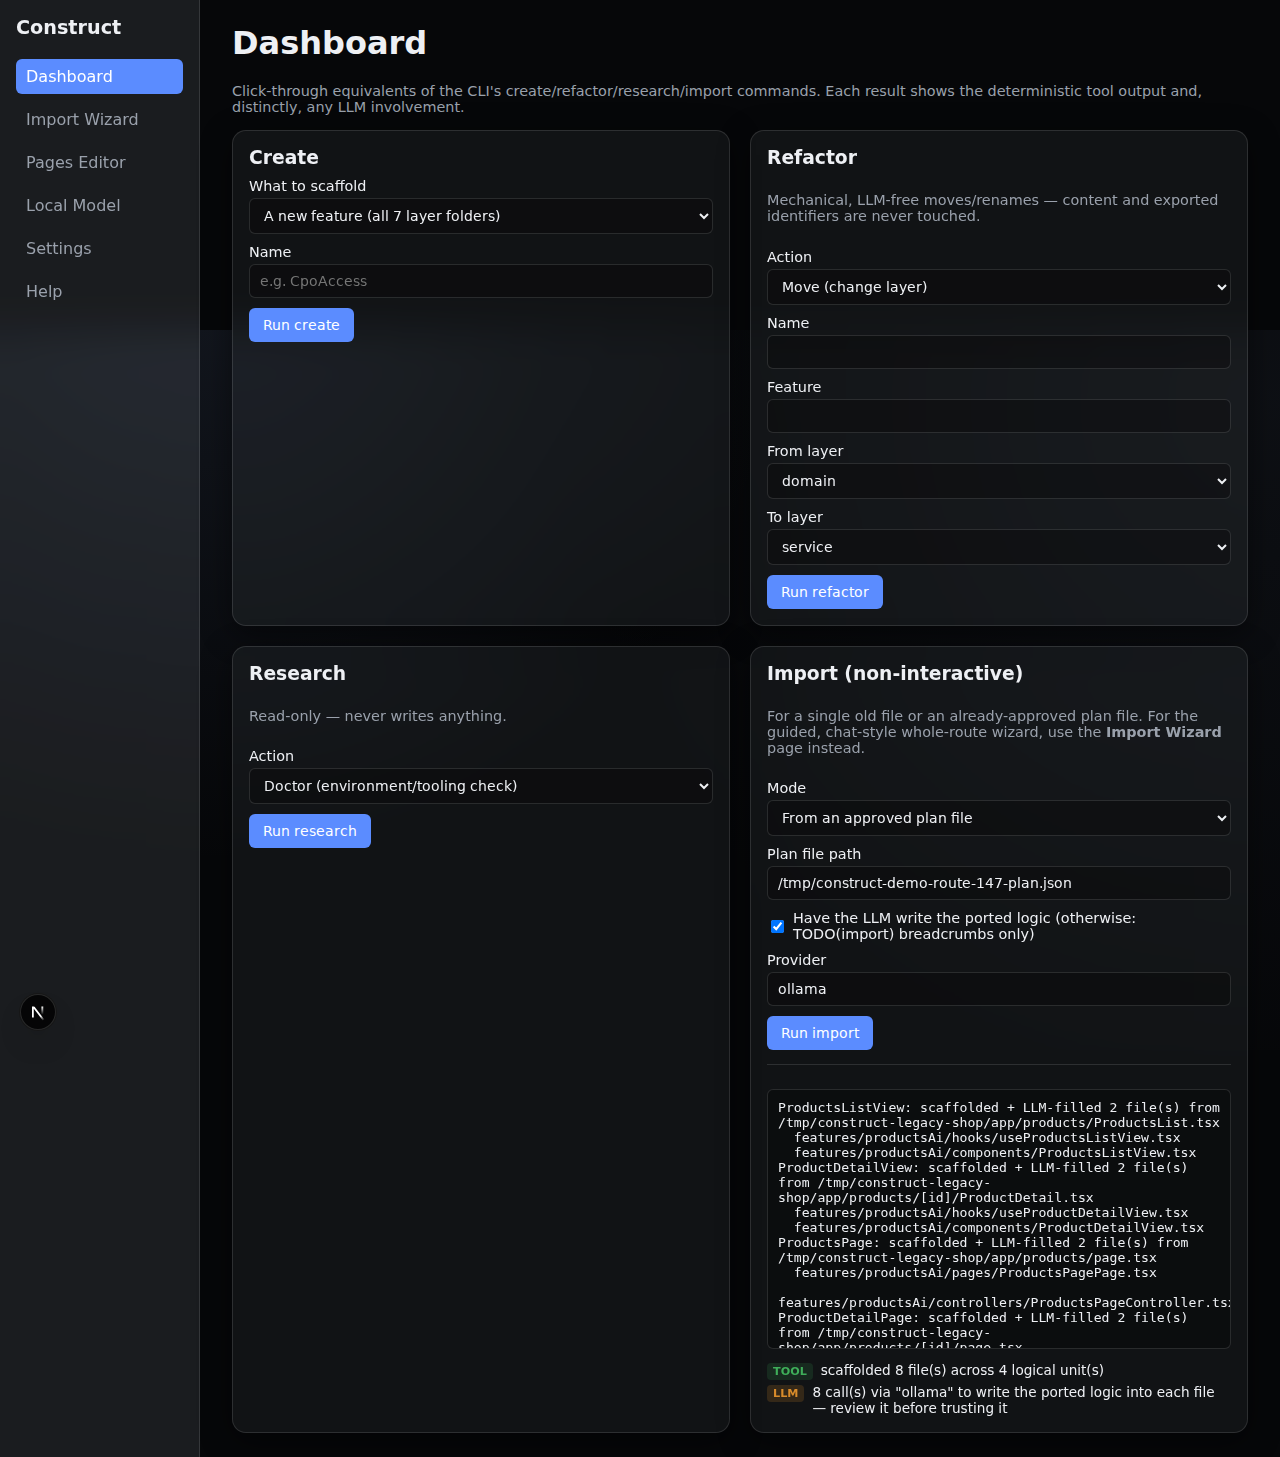
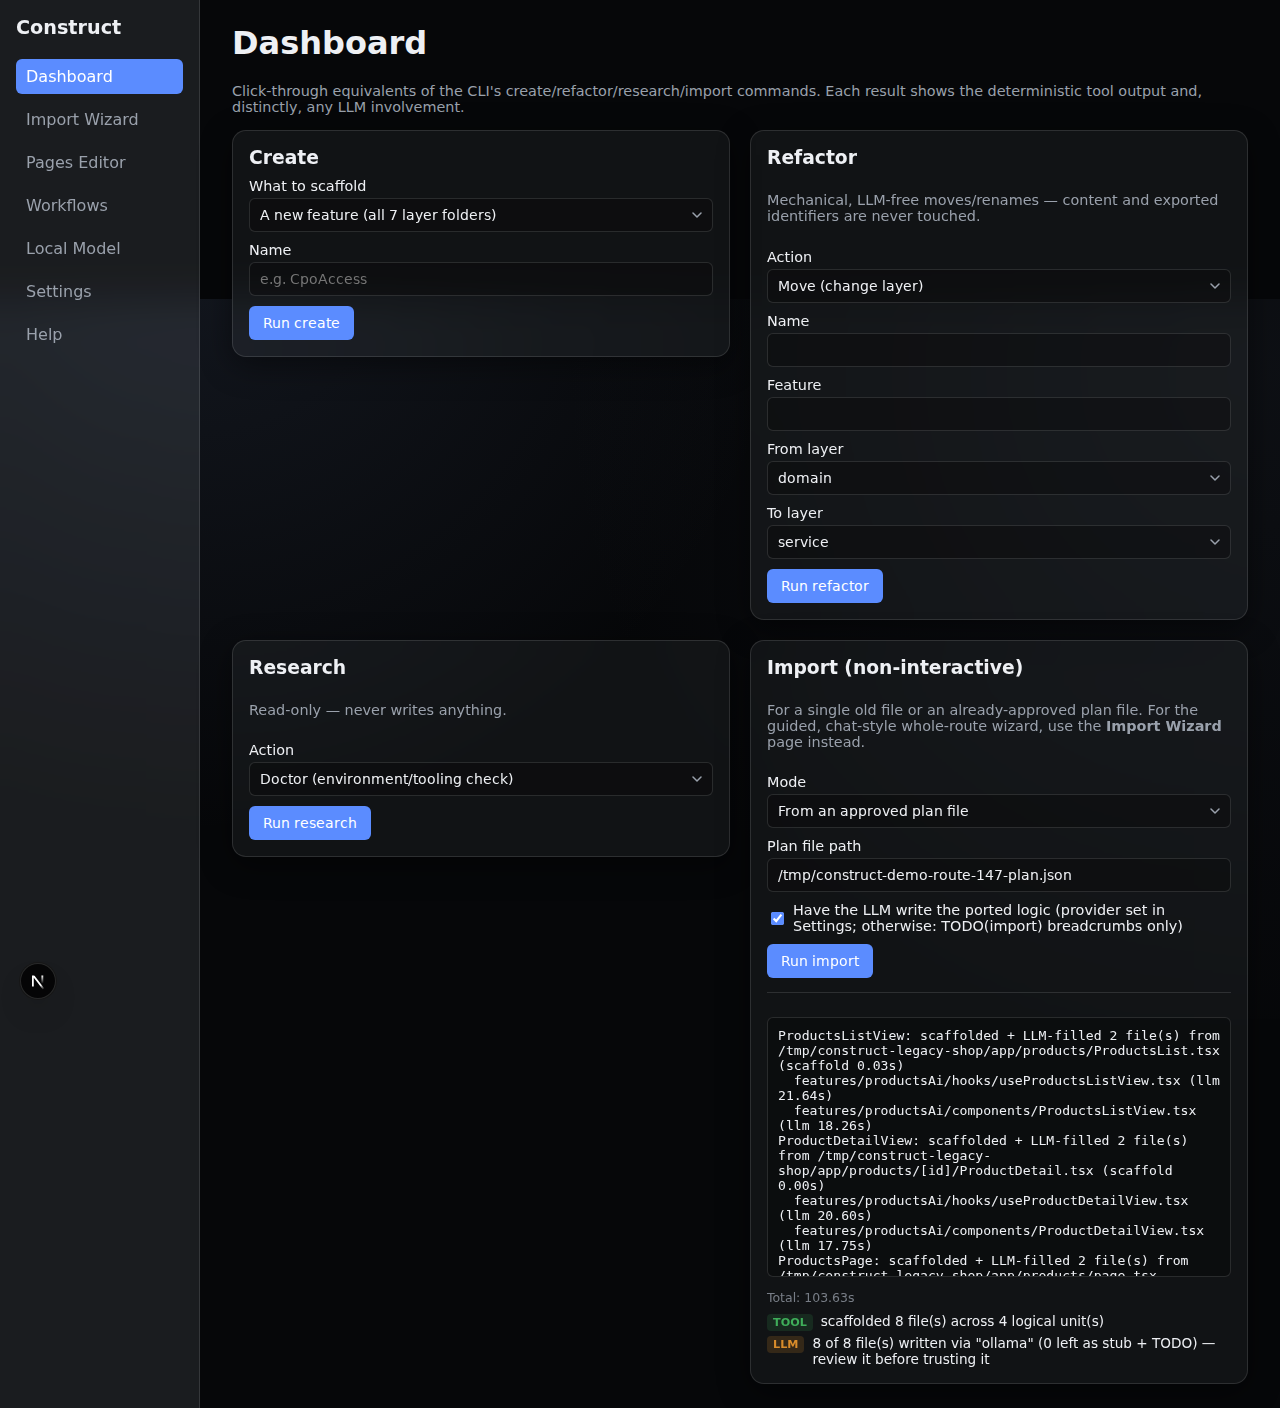
Refresh Help Tutorials screenshots against current UI; fix stale tutorial copy and demo specs (#194)
Create form now has an opt-in LLM checkbox (#109); provider comes from Settings; demo specs updated accordingly.

diff --git a/ui/e2e/tests/demos/route-import.spec.js b/ui/e2e/tests/demos/route-import.spec.js
@@ -45,7 +45,7 @@ test.describe.serial('Demo #146 -- guided route import: scan, plan, approval (UI
 
   test.beforeAll(async ({ request }) => {
     projectDir = fs.mkdtempSync(path.join(os.tmpdir(), 'construct-demo-route-146-ui-'));
-    const settingsRes = await request.post(`${API_BASE}/api/settings`, { data: { projectDir } });
+    const settingsRes = await request.post(`${API_BASE}/api/settings`, { data: { projectDir, llmProviders: { importFill: 'ollama' } } }); // provider comes from Settings since #109
     expect(settingsRes.ok()).toBeTruthy();
     const initRes = await request.post(`${API_BASE}/api/init`);
     expect(initRes.ok()).toBeTruthy();
@@ -112,7 +112,7 @@ test.describe.serial('Demo #147 -- guided route import: scaffold + AI-written lo
   test.beforeAll(async ({ request }) => {
     expect(fs.existsSync(PLAN_FILE)).toBeTruthy();
     projectDir = fs.mkdtempSync(path.join(os.tmpdir(), 'construct-demo-route-147-ui-'));
-    const settingsRes = await request.post(`${API_BASE}/api/settings`, { data: { projectDir } });
+    const settingsRes = await request.post(`${API_BASE}/api/settings`, { data: { projectDir, llmProviders: { importFill: 'ollama' } } }); // provider comes from Settings since #109
     expect(settingsRes.ok()).toBeTruthy();
     const initRes = await request.post(`${API_BASE}/api/init`);
     expect(initRes.ok()).toBeTruthy();
@@ -126,20 +126,19 @@ test.describe.serial('Demo #147 -- guided route import: scaffold + AI-written lo
     // 8 real per-file ollama (qwen2.5-coder:7b) calls -- genuinely slow
     // (the CLI run of the same plan took ~2 minutes end to end), well past
     // playwright.config.js's default 30s test timeout.
-    test.setTimeout(240_000);
+    test.setTimeout(660_000);
     await page.goto('/dashboard');
     await expect(page.locator('h1')).toHaveText('Dashboard');
     const importForm = page.locator('.command-form', { has: page.getByRole('heading', { name: 'Import (non-interactive)' }) });
 
     await importForm.getByLabel('Mode').selectOption('plan');
     await importForm.getByLabel('Plan file path').fill(PLAN_FILE);
-    await importForm.getByLabel(/Have the LLM write/).check();
-    await importForm.getByLabel('Provider').fill('ollama');
+    await importForm.getByLabel(/Have the LLM write the ported logic/).check();
 
     await importForm.getByRole('button', { name: 'Run import' }).click();
     // 8 real per-file ollama calls (qwen2.5-coder:7b) -- genuinely slow;
     // the CLI run of the same plan took ~2 minutes end to end.
-    await expect(importForm.locator('.command-result')).toBeVisible({ timeout: 180_000 });
+    await expect(importForm.locator('.command-result')).toBeVisible({ timeout: 600_000 });
     await expect(importForm.locator('.attribution-label.llm')).toBeVisible();
 
     await page.screenshot({ path: path.join(SCREENSHOTS_DIR, 'route-import-147-ui-1-scaffold-and-ollama-fill.png'), fullPage: true });

diff --git a/ui/e2e/tests/demos/listing-details.spec.js b/ui/e2e/tests/demos/listing-details.spec.js
@@ -88,21 +88,21 @@ test.describe.serial('Demo #133 — Products listing & details (UI)', () => {
     await page.screenshot({ path: path.join(SCREENSHOTS_DIR, 'listing-details-3-ui-browse-pages.png'), fullPage: true });
   });
 
-  // #136 — the UI has no LLM-assisted create path today: the Create form
-  // (top-left) has no "--llm" field at all, unlike the Import form
-  // (bottom-right), which does. Real, current-code evidence for that gap,
-  // captured on the same Dashboard page in one screenshot.
-  test('#136 — the Dashboard Create form has no LLM option (contrast: Import form does)', async ({ page }) => {
+  // #136 — LLM-assisted create from the UI. Since #109 the Create form has an
+  // opt-in, per-run checkbox that uses the provider chosen in Settings; it
+  // stays OFF by default so nothing calls a model unless the user asks.
+  test('#136 — the Dashboard Create form has an opt-in LLM checkbox, off by default', async ({ page }) => {
     await page.goto('/dashboard');
     const createForm = page.locator('.command-form', { has: page.getByRole('heading', { name: 'Create' }) });
-    const importForm = page.locator('.command-form', { has: page.getByRole('heading', { name: 'Import (non-interactive)' }) });
     await expect(createForm).toBeVisible();
-    await expect(importForm).toBeVisible();
-    // Create's form: no element mentions an LLM/provider at all.
-    await expect(createForm.getByText(/llm/i)).toHaveCount(0);
-    // Import's form: the real LLM checkbox construct's import path exposes.
-    await expect(importForm.getByText('Have the LLM write the ported logic (otherwise: TODO(import) breadcrumbs only)')).toBeVisible();
-    await page.screenshot({ path: path.join(SCREENSHOTS_DIR, 'listing-details-4-ui-no-llm-field-on-create.png'), fullPage: true });
+    await createForm.locator('select').first().selectOption('layer'); // the checkbox applies to layer / vertical-slice creates
+    const llmBox = createForm.getByLabel(/Have the LLM write the implementation/);
+    await expect(llmBox).toBeVisible();
+    await expect(llmBox).not.toBeChecked();
+    await llmBox.check();
+    await expect(llmBox).toBeChecked();
+    await page.screenshot({ path: path.join(SCREENSHOTS_DIR, 'listing-details-4-ui-llm-option-on-create.png'), fullPage: true });
+    await llmBox.uncheck();
   });
 
   // #137 — the zero-LLM data layer: `construct create service` with

diff --git a/ui/e2e/tests/demos/import.spec.js b/ui/e2e/tests/demos/import.spec.js
@@ -106,9 +106,9 @@ test.describe.serial('Demo #138/#139 -- construct import (UI)', () => {
   });
 
   // Issue #139's UI section: the same form, with the LLM checkbox turned
-  // on and provider "claude". This sandbox has no `claude` CLI installed,
-  // so the real, honest result is the backend's real error -- captured
-  // here as-is, not replaced with fabricated ported output.
+  // on. The provider comes from Settings (default claude, since #109) and
+  // the claude CLI is reachable in this environment, so the real result is
+  // a successful LLM fill -- captured as-is, never fabricated.
   test('#139 UI: Import form with LLM checkbox -- real attempt, real result', async ({ page }) => {
     await page.goto('/dashboard');
     const importForm = page.locator('.command-form', { has: page.getByRole('heading', { name: 'Import (non-interactive)' }) });
@@ -155,8 +155,8 @@ test('#138/#139 CLI transcripts (reproduced for this run)', () => {
     const domainFile = fs.readFileSync(path.join(cliProjectDir, 'features/pricing/domain/DiscountWidget.tsx'), 'utf8');
     expect(domainFile).toContain('TODO(import): port the relevant logic from');
 
-    // --llm claude: real command, real attempt -- expected to fail in this
-    // sandbox (no `claude` CLI on PATH), captured honestly either way.
+    // --llm claude: real command, real call -- succeeds when the claude CLI
+    // is on PATH; captured honestly either way.
     const withLlm = runCli([
       'import', 'DiscountBadge', '--feature', 'pricing', '--layers', 'domain',
       '--from', OLD_FILE, '--llm', 'claude', '--dir', cliProjectDir,

diff --git a/ui/client/features/help/components/ListingDetailsTutorial.tsx b/ui/client/features/help/components/ListingDetailsTutorial.tsx
@@ -83,17 +83,19 @@ function LlmAssistedStep() {
         <code>construct validate</code> cleanly.
       </p>
       <p className="hint">
-        This path is CLI-only today — the Dashboard&apos;s Create form has no LLM field at all,
-        unlike Import&apos;s LLM checkbox on the same screen:
+        In the Dashboard, the Create form has an opt-in checkbox for exactly this: &quot;Have the
+        LLM write the implementation&quot;. It is off by default, and when ticked it uses the
+        provider you chose for create-fill in Settings — so nothing calls a model unless you ask
+        it to, on that run:
       </p>
       <figure className="tutorial-figure">
         <img
           className="tutorial-screenshot"
-          src="/tutorials/listing-details/listing-details-4-ui-no-llm-field-on-create.png"
-          alt="Dashboard Create form with no LLM field, next to Import's LLM checkbox"
+          src="/tutorials/listing-details/listing-details-4-ui-llm-option-on-create.png"
+          alt="Dashboard Create form showing the opt-in LLM checkbox, unchecked by default"
           loading="lazy"
         />
-        <figcaption>Dashboard: Create has no LLM option (top-left) vs. Import&apos;s LLM checkbox (bottom-right).</figcaption>
+        <figcaption>Dashboard Create form: the opt-in LLM checkbox (off by default).</figcaption>
       </figure>
       <p className="hint">
         Equivalent CLI command:{' '}

diff --git a/ui/client/features/help/components/RouteImportTutorial.tsx b/ui/client/features/help/components/RouteImportTutorial.tsx
@@ -108,12 +108,12 @@ function AiWrittenLogicEvidence() {
         <img
           className="tutorial-screenshot"
           src="/tutorials/route-import/route-import-147-ui-1-scaffold-and-ollama-fill.png"
-          alt="Import form set to an approved plan file, provider ollama, real per-file AI writes"
+          alt="Import form set to an approved plan file, LLM checkbox ticked, real per-file AI writes via the Ollama provider chosen in Settings"
           loading="lazy"
         />
         <figcaption>
           Dashboard&apos;s &quot;From an approved plan file&quot; Import form: scaffold plus 8 real
-          per-file writes via a local Ollama model, with the tool/llm attribution split.
+          per-file writes via the local Ollama model chosen in Settings, with the tool/llm attribution split.
         </figcaption>
       </figure>
       <p className="hint">

diff --git a/ui/client/features/help/components/SetupSettingsTutorial.tsx b/ui/client/features/help/components/SetupSettingsTutorial.tsx
@@ -103,7 +103,10 @@ function PerCapabilityProvider() {
         <code>importFill</code>, <code>createFill</code>, and <code>planAnalysis</code> — every
         option validated live against the CLI&apos;s own provider list, never a UI-side copy that
         could drift. <code>importFill</code>/<code>createFill</code> both accept a local model via{' '}
-        Ollama (e.g. <code>qwen2.5-coder:7b</code>):
+        Ollama (e.g. <code>qwen2.5-coder:7b</code>). These choices are used for real: a Dashboard
+        Create or Import run (or the Import Wizard&apos;s per-file fill) uses the provider set here, but
+        only when you tick the run&apos;s &quot;Have the LLM write…&quot; checkbox — nothing calls a model
+        by default.
       </p>
       <figure className="tutorial-figure">
         <img

diff --git a/ui/e2e/tests/help-tutorials.spec.js b/ui/e2e/tests/help-tutorials.spec.js
@@ -27,7 +27,7 @@ const EXPECTED_IMAGE_PATHS = [
   '/tutorials/listing-details/listing-details-1-ui-create-feature.png',
   '/tutorials/listing-details/listing-details-2-ui-create-listing-slice.png',
   '/tutorials/listing-details/listing-details-3-ui-browse-pages.png',
-  '/tutorials/listing-details/listing-details-4-ui-no-llm-field-on-create.png',
+  '/tutorials/listing-details/listing-details-4-ui-llm-option-on-create.png',
   '/tutorials/listing-details/listing-details-5-ui-research-openapi-service.png',
 ];
 
